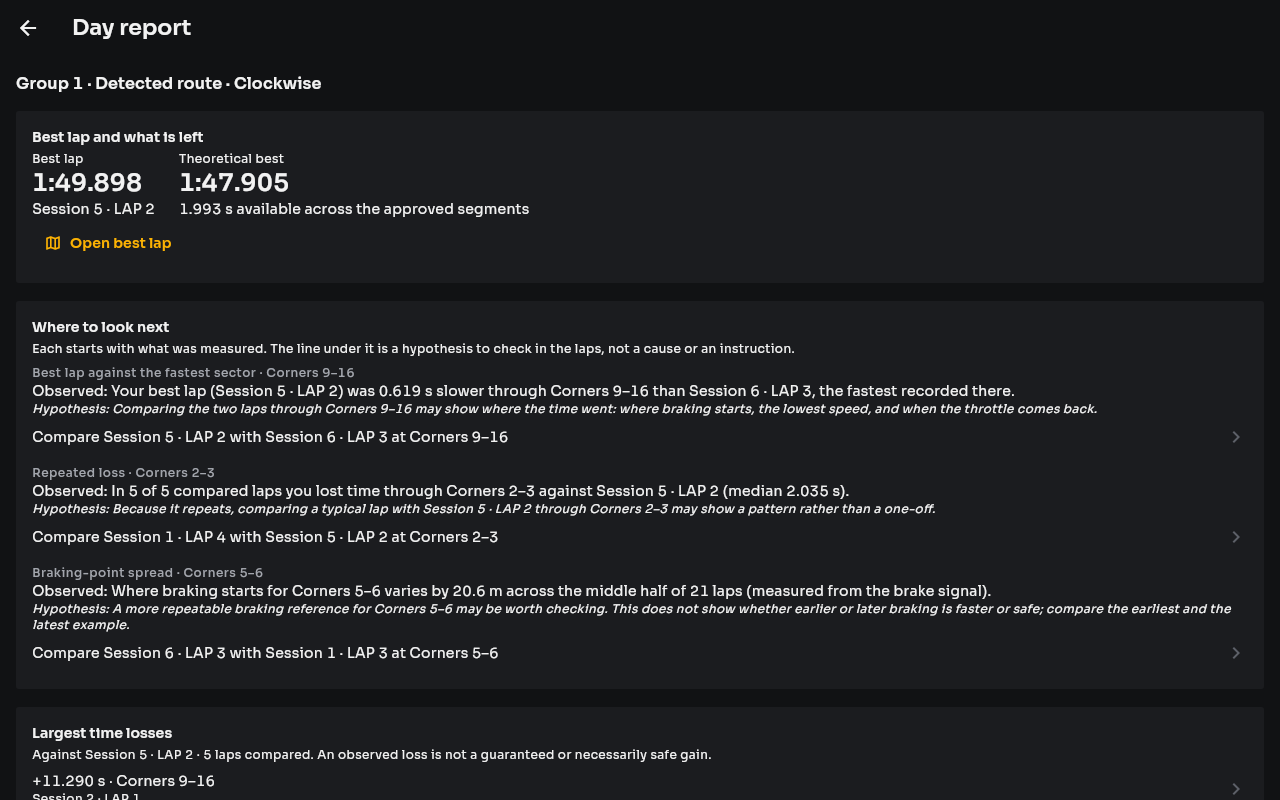
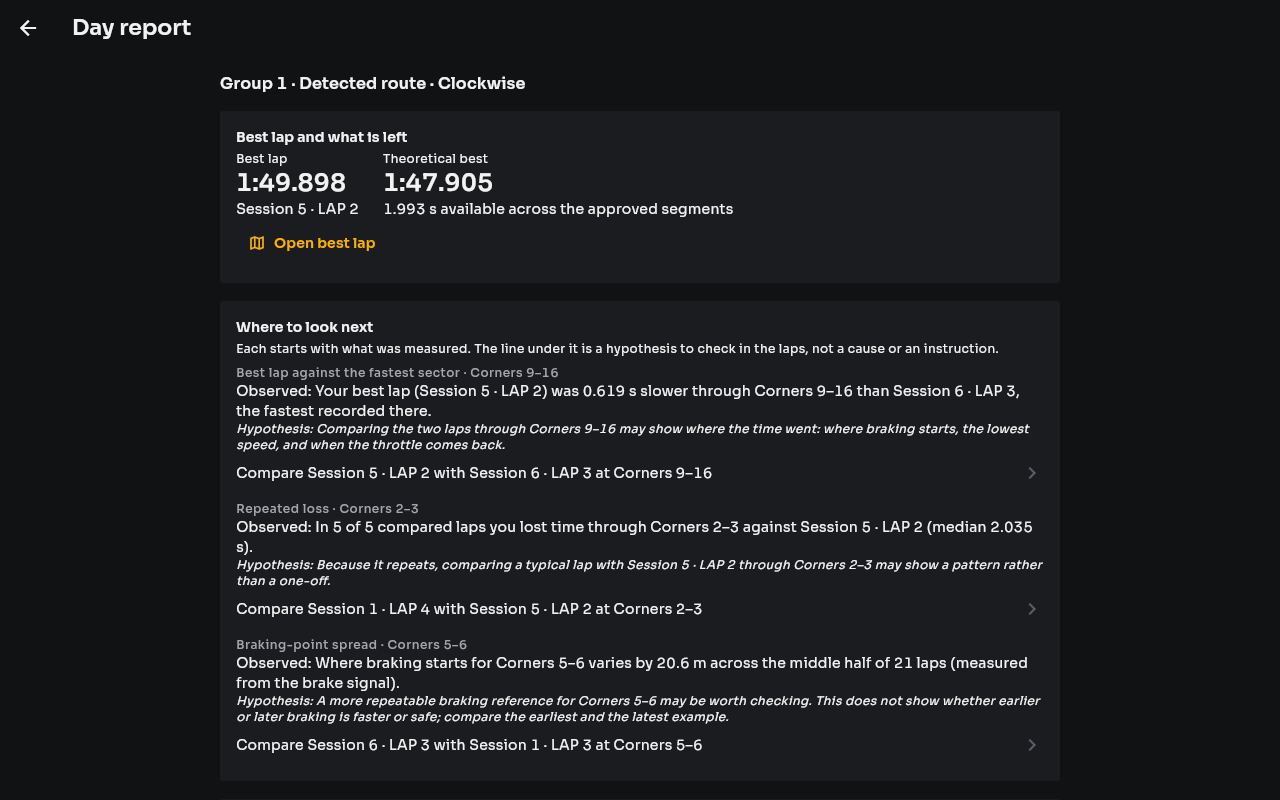
Units stay with their numbers; Compare headers wrap; report 840 wide
- Times and gaps use a no-break space before "s", so a wrapped line never
  leaves the unit alone.
- The Compare page's A and B headers wrap to three lines instead of cutting
  off the lap number with very large text.
- The day report is at most 840 px wide, centred.
- The import page's options have one focus stop each.

Claude-Session: https://claude.ai/code/session_015usdQtRA6xzQe9Dwv5BWvy

Changed region(s): [[0.0312, 0.4062, 0.9688, 1.0], [0.0312, 0.1562, 0.5625, 0.3125], [0.0, 0.0938, 0.4062, 0.125]]

diff --git a/lib/day/day_report_page.dart b/lib/day/day_report_page.dart
@@ -1,3 +1,5 @@
+import 'dart:math' as math;
+
 import 'package:flutter/material.dart';
 import 'package:telemetry_core/telemetry_core.dart';
 
@@ -134,26 +136,32 @@ class DayReportPage extends StatelessWidget {
     final groupLabel = report['groupLabel'] as String? ?? '';
     return Scaffold(
       appBar: AppBar(title: Text(l10n.dayReport)),
-      body: ListView(
-        key: const ValueKey('dayReport'),
-        padding: const EdgeInsets.all(16),
-        children: [
-          Text(
-            groupLabel.isEmpty
-                ? l10n.reportGroupNone
-                : _groupLabel(l10n, groupLabel),
-            key: const ValueKey('dayReportGroup'),
-            style: theme.textTheme.titleMedium,
+      // At most 840 wide, centred, so lines stay readable on a large screen.
+      body: LayoutBuilder(
+        builder: (context, constraints) => ListView(
+          key: const ValueKey('dayReport'),
+          padding: EdgeInsets.symmetric(
+            horizontal: math.max(16, (constraints.maxWidth - 840) / 2),
+            vertical: 16,
           ),
-          const SizedBox(height: 12),
-          _best(context),
-          _focus(context),
-          _losses(context),
-          _sessions(context),
-          _consistency(context),
-          _car(context),
-          _heartRate(context),
-        ],
+          children: [
+            Text(
+              groupLabel.isEmpty
+                  ? l10n.reportGroupNone
+                  : _groupLabel(l10n, groupLabel),
+              key: const ValueKey('dayReportGroup'),
+              style: theme.textTheme.titleMedium,
+            ),
+            const SizedBox(height: 12),
+            _best(context),
+            _focus(context),
+            _losses(context),
+            _sessions(context),
+            _consistency(context),
+            _car(context),
+            _heartRate(context),
+          ],
+        ),
       ),
     );
   }

diff --git a/test/day/comparison_page_test.dart b/test/day/comparison_page_test.dart
@@ -2,6 +2,7 @@ import 'dart:io';
 
 import 'package:flutter/foundation.dart';
 import 'package:flutter/material.dart';
+import 'package:flutter/rendering.dart' show RenderParagraph;
 import 'package:flutter_map/flutter_map.dart';
 import 'package:flutter_test/flutter_test.dart';
 import 'package:intl/intl.dart';
@@ -174,6 +175,40 @@ void main() {
       chart(const ChartSeries.failed(chartReasonChannelMissing)),
     );
     expect(find.text('Not available · A: not recorded'), findsOneWidget);
+  });
+
+  testWidgets('with very large text a lap header wraps, keeping the lap', (
+    tester,
+  ) async {
+    final outcome = importDay();
+    final analysis = outcome.analysis!;
+    final controller = DayResultsController(
+      runs: outcome.runs,
+      analysis: analysis,
+    );
+    final best = analysis.ranking!.bestOfDay!;
+    final a = controller
+        .comparisonCandidates(best)
+        .firstWhere((row) => row.reference != best.reference);
+    await tester.binding.setSurfaceSize(const Size(360, 740));
+    tester.platformDispatcher.textScaleFactorTestValue = 2;
+    addTearDown(() {
+      tester.binding.setSurfaceSize(null);
+      tester.platformDispatcher.clearTextScaleFactorTestValue();
+    });
+    await tester.pumpWidget(
+      TelemetryApp(
+        home: ComparisonPage(controller: controller, a: a, b: best),
+      ),
+    );
+    await tester.pumpAndSettle();
+    for (final header in [
+      find.textContaining('A · '),
+      find.textContaining('B · '),
+    ]) {
+      final paragraph = tester.renderObject<RenderParagraph>(header.first);
+      expect(paragraph.didExceedMaxLines, isFalse);
+    }
   });
 
   testWidgets('compares two laps by track position, A − B', (tester) async {

diff --git a/lib/format.dart b/lib/format.dart
@@ -1,6 +1,10 @@
 import 'package:intl/intl.dart';
 import 'package:telemetry_core/telemetry_core.dart';
 
+/// Between a number and its unit: a no-break space, so "0.650 s" never
+/// wraps before the "s".
+const unitSpace = '\u00a0';
+
 /// [value] with [digits] decimals: "12.5". Every language, Polish included,
 /// uses a decimal point (the owner's choice, 2026-10-03), and there is no
 /// grouping, so digits stay aligned.
@@ -8,12 +12,12 @@ String fixed(double value, int digits) => value.toStringAsFixed(digits);
 
 /// A time as the app shows it: "28.662 s" below a minute, "1:49.898" from one
 /// minute, "—" when there is no finite value. Rounded before minutes are
-/// split.
+/// split. A no-break space keeps the unit with its number when text wraps.
 String displayTime(double seconds) {
   if (!seconds.isFinite || seconds < 0) return '—';
   final milliseconds = (seconds * 1000).round();
   if (milliseconds < 60000) {
-    return '${fixed(milliseconds / 1000, 3)} s';
+    return '${fixed(milliseconds / 1000, 3)}${unitSpace}s';
   }
   return formatLapTime(milliseconds / 1000, 3) ?? '—';
 }
@@ -27,7 +31,7 @@ String displayDelta(double seconds) {
       : milliseconds < 0
       ? '−'
       : '±';
-  return '$sign${fixed(milliseconds.abs() / 1000, 3)} s';
+  return '$sign${fixed(milliseconds.abs() / 1000, 3)}${unitSpace}s';
 }
 
 /// A local date and time in the app's language: "Oct 3, 2026, 06:30" in

diff --git a/test/day/day_report_page_test.dart b/test/day/day_report_page_test.dart
@@ -235,6 +235,20 @@ void main() {
     expect(find.byType(LapPage), findsOneWidget);
   });
 
+  testWidgets('on a large screen the report stays 840 wide, centred', (
+    tester,
+  ) async {
+    final controller = await open(tester, importDay());
+    await tester.binding.setSurfaceSize(const Size(1920, 1080));
+    await tester.pumpWidget(
+      TelemetryApp(home: DayReportPage(report: controller.dayReportDocument)),
+    );
+    await tester.pumpAndSettle();
+    final group = tester.getRect(find.byKey(const ValueKey('dayReportGroup')));
+    expect(group.left, 540);
+    expect(group.right, lessThanOrEqualTo(1380));
+  });
+
   testWidgets('the day report presents what was calculated', (tester) async {
     final controller = await open(tester, importDay());
     final report = controller.dayReportDocument;

diff --git a/lib/import/day_import_page.dart b/lib/import/day_import_page.dart
@@ -1002,12 +1002,15 @@ class _DayImportPageState extends State<DayImportPage> {
         child: Row(
           mainAxisSize: MainAxisSize.min,
           children: [
-            Checkbox(
-              key: checkboxKey,
-              value: value,
-              onChanged: onChanged == null
-                  ? null
-                  : (checked) => onChanged(checked ?? false),
+            // One focus stop per option: the row takes the focus.
+            ExcludeFocus(
+              child: Checkbox(
+                key: checkboxKey,
+                value: value,
+                onChanged: onChanged == null
+                    ? null
+                    : (checked) => onChanged(checked ?? false),
+              ),
             ),
             Flexible(child: Text(label)),
           ],

diff --git a/test/l10n_test.dart b/test/l10n_test.dart
@@ -198,7 +198,9 @@ void main() {
     testWidgets('English uses a decimal point', (tester) async {
       await tester.pumpWidget(probe(all, locale: const Locale('en')));
       expect(
-        find.text('1:49.898 | 28.662 s | −1.340 s | 12.5 | Clockwise'),
+        find.text(
+          '1:49.898 | 28.662\u00a0s | −1.340\u00a0s | 12.5 | Clockwise',
+        ),
         findsOneWidget,
       );
     });
@@ -207,7 +209,7 @@ void main() {
       await tester.pumpWidget(probe(all, locale: const Locale('pl')));
       expect(
         find.text(
-          '1:49.898 | 28.662 s | −1.340 s | 12.5 | Zgodnie z ruchem wskazówek zegara',
+          '1:49.898 | 28.662\u00a0s | −1.340\u00a0s | 12.5 | Zgodnie z ruchem wskazówek zegara',
         ),
         findsOneWidget,
       );

diff --git a/test/import/day_import_page_test.dart b/test/import/day_import_page_test.dart
@@ -767,7 +767,7 @@ void main() {
     expect(inRow('Session 1'), findsOneWidget);
     expect(inRow('3 laps'), findsOneWidget);
     expect(inRow('Best'), findsOneWidget);
-    expect(inRow('4.000 s'), findsOneWidget);
+    expect(inRow('4.000\u00a0s'), findsOneWidget);
   });
 
   testWidgets('only the session of the best lap of the day is purple, and '
@@ -966,7 +966,7 @@ void main() {
   });
 
   test('times read like the rest of the app', () {
-    expect(displayTime(28.662), '28.662 s');
+    expect(displayTime(28.662), '28.662\u00a0s');
     expect(displayTime(109.898), '1:49.898');
     expect(displayTime(59.9996), '1:00.000');
     expect(displayTime(double.nan), '—');

diff --git a/lib/day/comparison_page.dart b/lib/day/comparison_page.dart
@@ -427,6 +427,9 @@ class _ComparisonPageState extends State<ComparisonPage> {
                     Text(
                       '${slot == 0 ? 'A' : 'B'} · ${l10n.lap(row)}',
                       style: theme.textTheme.titleSmall,
+                      // Wraps rather than cutting off the lap, which tells
+                      // A from B.
+                      maxLines: 3,
                       overflow: TextOverflow.ellipsis,
                     ),
                     Text(displayTime(row.durationSeconds)),
